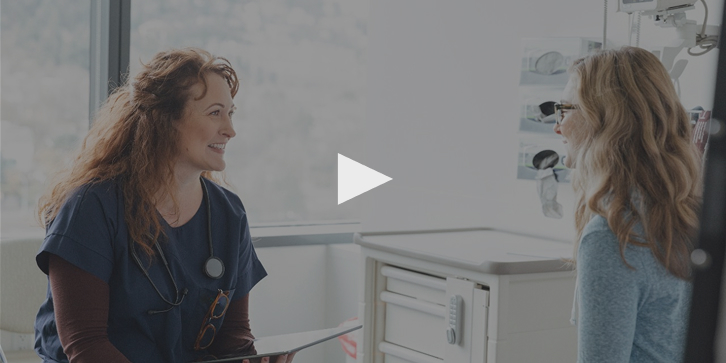
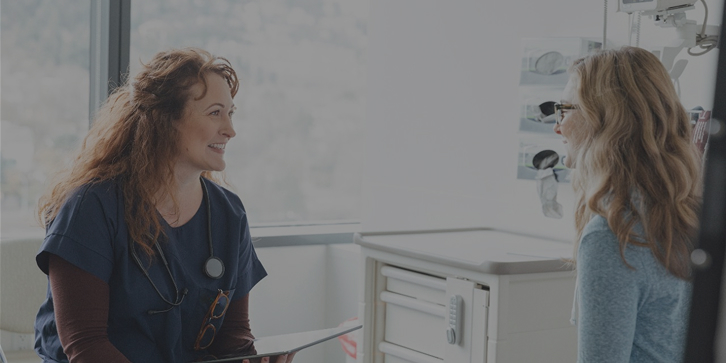
feat: adjust video play button and update titles font-family

Changed region(s): [[0.4545, 0.4242, 0.5455, 0.5758]]

diff --git a/css/style.css b/css/style.css
@@ -79,8 +79,7 @@ body {
 }
 
 
-/* ONCOLOGIA */
-.az-oncologia {
+/* ONCOLOGIA */.az-oncologia {
   padding: 80px 0;
   font-family: 'Inter', sans-serif;
 }
@@ -137,6 +136,12 @@ body {
   max-width: 420px;
 }
 
+.az-video a {
+  display: block;
+  position: relative;
+  text-decoration: none;
+}
+
 .az-video img {
   width: 100%;
   margin-top: 20px;
@@ -144,13 +149,29 @@ body {
   transition: transform .35s ease, opacity .35s ease;
 }
 
-.az-video img:hover {
-  transform: scale(1.04);
-  opacity: .9;
+.az-play-icon {
+  position: absolute;
+  top: calc(40% + 10px);
+  left: 50%;
+  transform: translate(-50%, -50%) !important;
+  width: 45px !important;
+  height: 45px !important;
+  object-fit: contain;
+  pointer-events: none;
+  transition: all .35s ease;
+  z-index: 10;
+  opacity: 0.9;
 }
 
-.az-video a{
-  display:block;
+.az-video a:hover img {
+  transform: scale(1.02);
+  opacity: .8;
+}
+
+.az-video a:hover .az-play-icon {
+  transform: translate(-50%, -50%) scale(1.2) !important;
+  opacity: 1;
+  filter: brightness(1.2);
 }
 
 /* PRIORIDADES */
@@ -308,10 +329,11 @@ body {
 }
 
 .az-box-text h3 {
-  color: #7E2755;
-  font-size: 28px;
-  margin-bottom: 20px;
-  font-family: 'LexiaBold', sans-serif;
+     color: #7E2755;
+    font-size: 28px;
+    margin-bottom: 30px;
+    font-family: "lexia", serif;
+    font-weight: 600;
 
 }
 
@@ -330,9 +352,9 @@ body {
 
 .az-box-highlight h3 {
   color: #7E2755;
-  font-family: 'LexiaBold', sans-serif;
-  font-size: 28px;
-  line-height: 1.3;
+    font-size: 28px;
+    font-family: "lexia", serif;
+    font-weight: 600;
 }
 
 /* AREAS */

diff --git a/index.html b/index.html
@@ -63,10 +63,10 @@
                     <p class="az-text">
                         Vemos um futuro onde o câncer não é mais uma causa de morte.
                     </p>
-
                     <div class="az-video">
                         <a href="https://www.youtube.com/watch?v=uei8pxqK5IE" target="_blank">
                             <img src="assets/video_thumb.jpg" alt="Video AstraZeneca">
+                            <img src="assets/icon_play.svg" class="az-play-icon" alt="Play">
                         </a>
                     </div>
                 </div>
@@ -288,7 +288,7 @@
 
                     <article class="areas-card">
                         <img src="assets/cancer_hematologico.jpg" alt="Médico analisando exames clínicos em consulta">
-                        <h3>Câncer ginecológico</h3>
+                        <h3>Câncer hematológico</h3>
                         <p>
                             Estamos impulsionando avanços científicos para transformar o tratamento de diferentes tipos
                             de câncer
